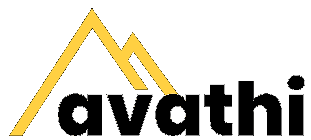
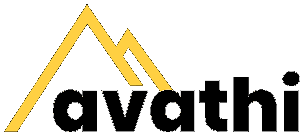
changing client

diff --git a/index.html b/index.html
@@ -99,7 +99,7 @@
           </div>
 
           <div class="col-lg-2 col-md-4 col-6">
-            <img src="assets/img/clients/client-5.png" class="img-fluid" alt="" data-aos="zoom-in" data-aos-delay="400">
+            <img src="assets/img/clients/client-8.png" class="img-fluid" alt="" data-aos="zoom-in" data-aos-delay="400">
           </div>
 
           <div class="col-lg-2 col-md-4 col-6">
